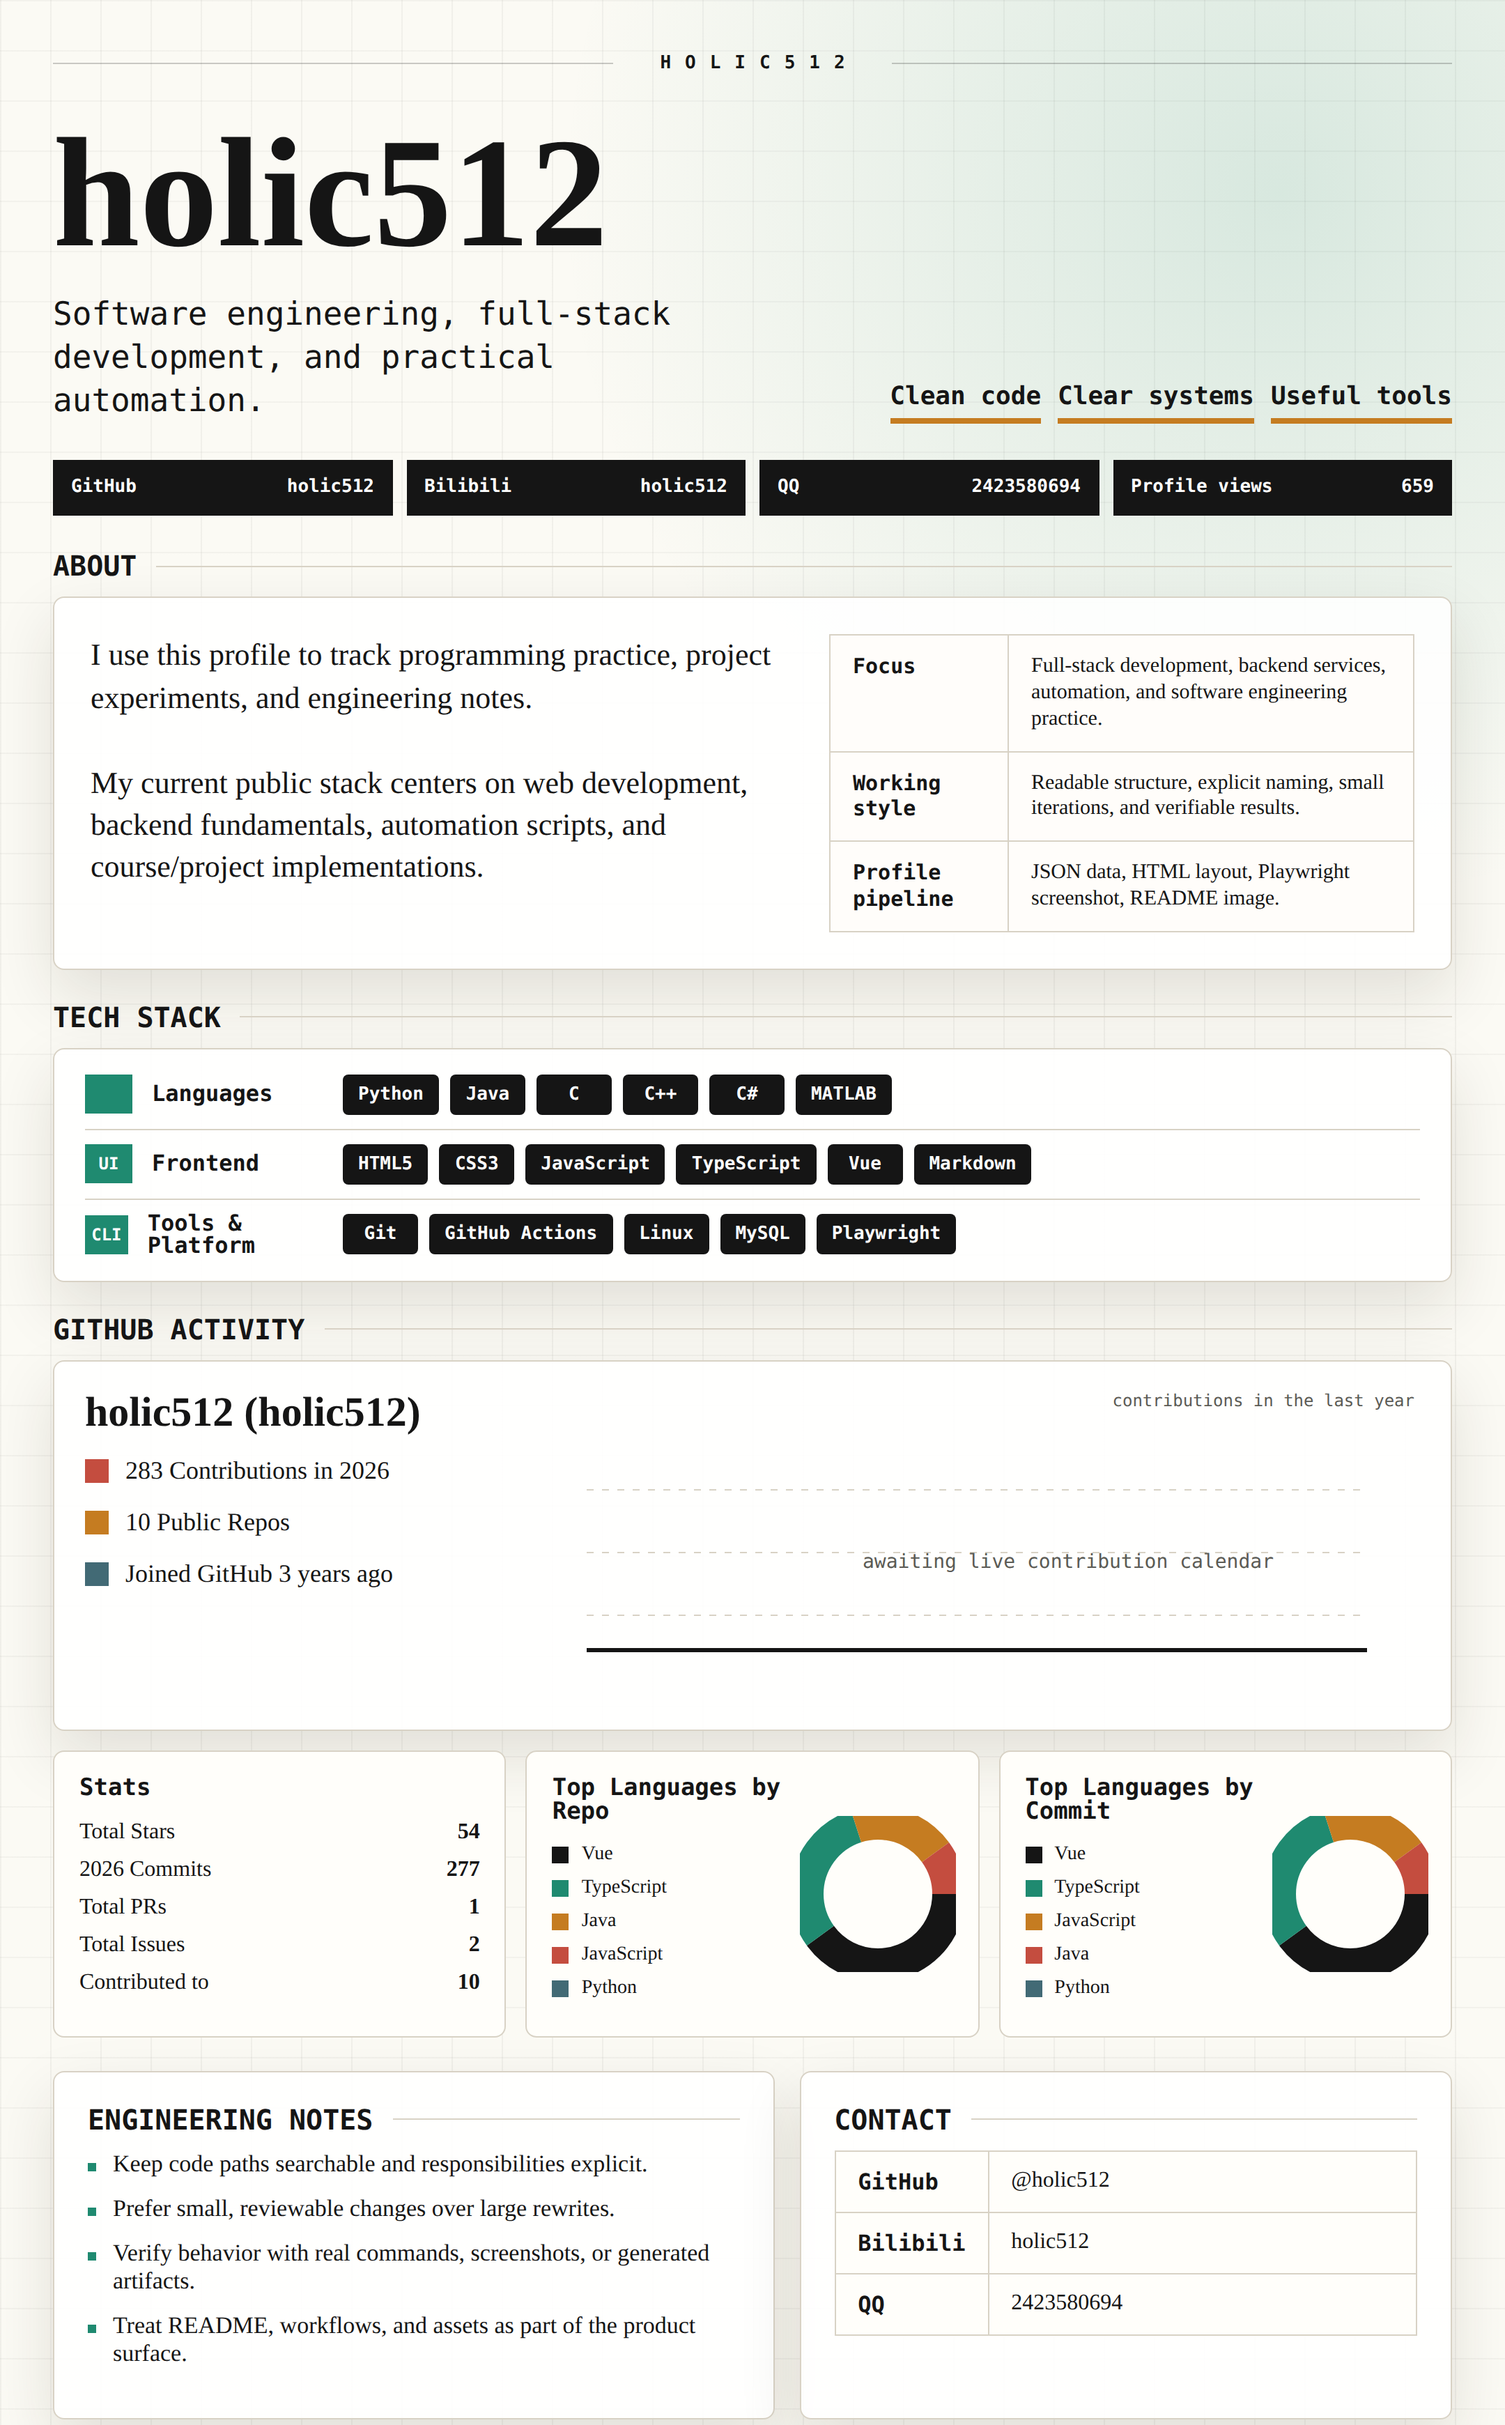
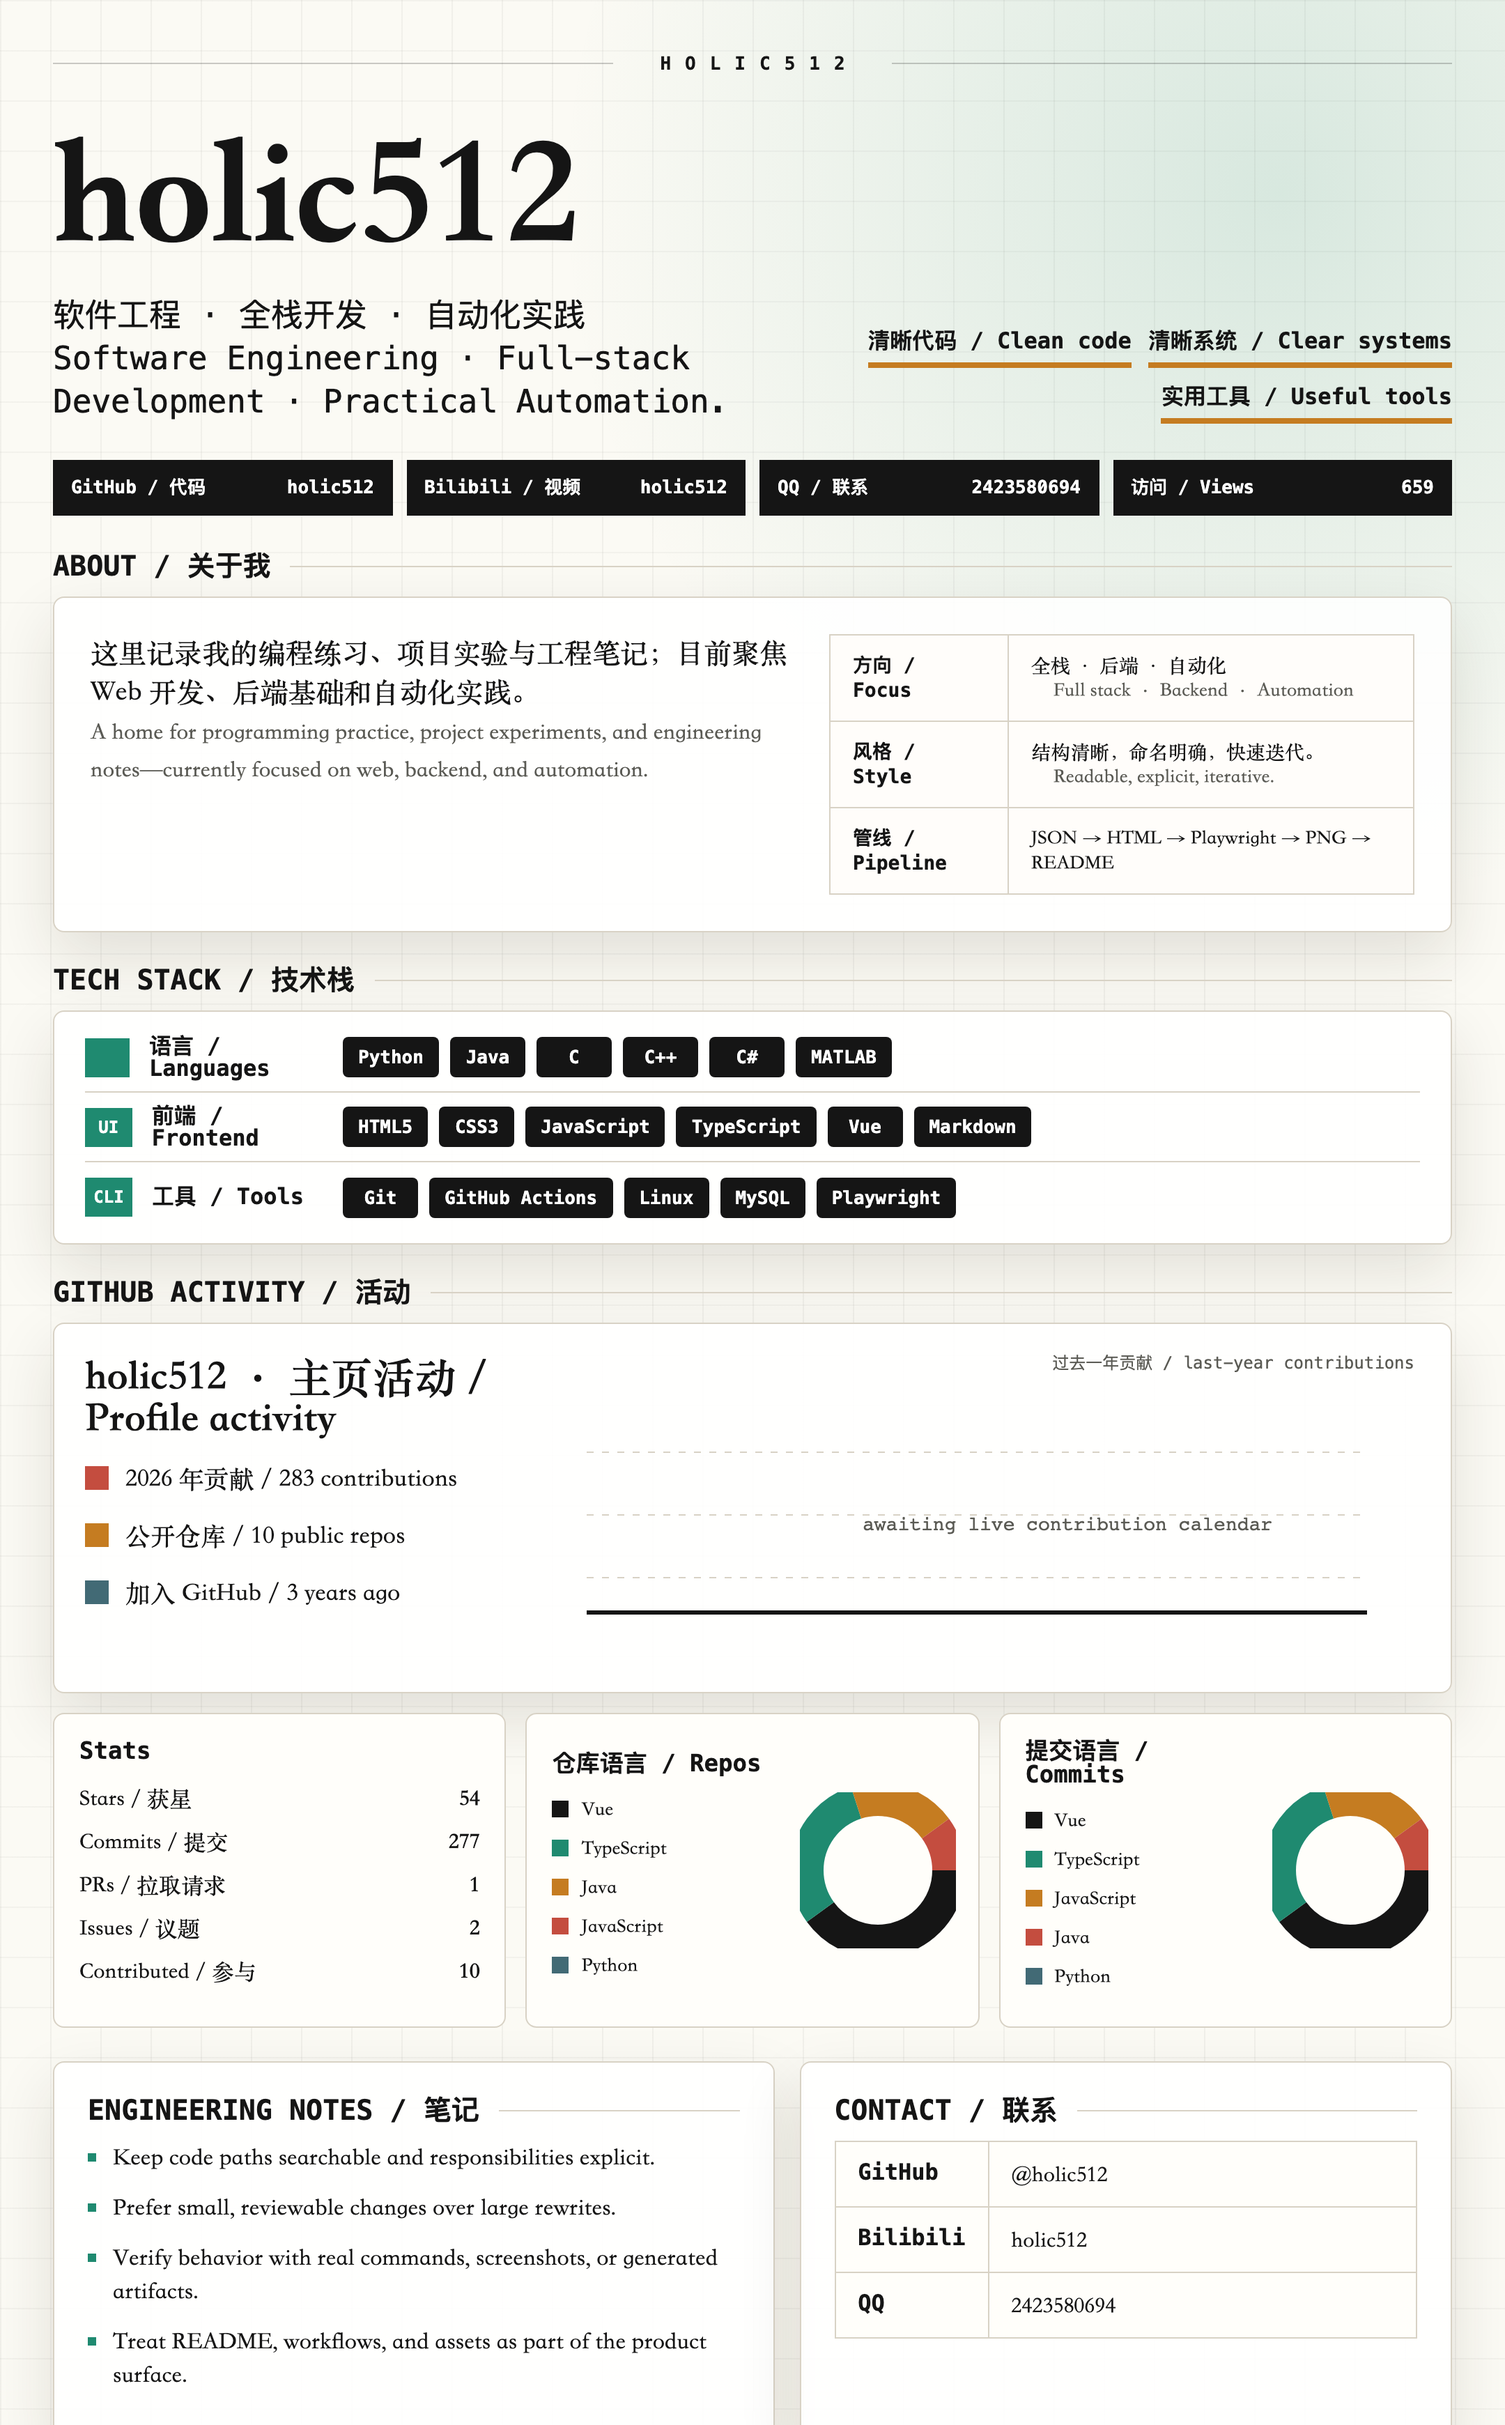
[feat] [1.升级 GitHub Profile 首页为中英双语结构。 2.更新主视觉与本地统计展示。]

diff --git a/templates/profile-readme.html b/templates/profile-readme.html
@@ -13,7 +13,7 @@
   <head>
     <meta charset="utf-8" />
     <meta name="viewport" content="width=device-width, initial-scale=1" />
-    <title>holic512 GitHub profile overview</title>
+    <title>holic512 · 个人主页 / GitHub Profile</title>
     <style>
       :root {
         --ink: #151515;
@@ -36,7 +36,7 @@
         margin: 0;
         background: var(--paper);
         color: var(--ink);
-        font-family: Georgia, "Times New Roman", serif;
+        font-family: "Songti SC", "STSong", Georgia, "Times New Roman", serif;
       }
 
       .profile-canvas {
@@ -93,6 +93,7 @@
         max-width: 620px;
         margin: 24px 0 0;
         font: 23px/1.35 ui-monospace, "SFMono-Regular", Menlo, Consolas, monospace;
+        white-space: pre-line;
       }
 
       .tagline {
@@ -100,7 +101,8 @@
         gap: 12px;
         justify-content: flex-end;
         align-items: center;
-        font: 18px/1 ui-monospace, "SFMono-Regular", Menlo, Consolas, monospace;
+        flex-wrap: wrap;
+        font: 16px/1.15 ui-monospace, "SFMono-Regular", Menlo, Consolas, monospace;
         font-weight: 800;
       }
 
@@ -167,8 +169,13 @@
 
       .about-copy {
         margin: 0;
-        font-size: 22px;
+        font-size: 20px;
         line-height: 1.38;
+      }
+
+      .translation {
+        color: var(--muted);
+        font-size: 0.82em;
       }
 
       .focus-table {
@@ -191,7 +198,7 @@
       .focus-row strong,
       .focus-row span {
         padding: 13px 16px;
-        font-size: 15px;
+        font-size: 14px;
         line-height: 1.25;
       }
 
@@ -413,7 +420,7 @@
     </style>
   </head>
   <body>
-    <main class="profile-canvas" aria-label="holic512 GitHub profile overview">
+    <main class="profile-canvas" aria-label="holic512 的中英双语 GitHub 个人主页概览">
       <div class="masthead">
         <div class="rule"></div>
         <div class="monogram">HOLIC512</div>
@@ -431,7 +438,7 @@
       <section class="badges" data-list="badges"></section>
 
       <section class="section">
-        <div class="section-title">ABOUT</div>
+        <div class="section-title">ABOUT / 关于我</div>
         <div class="panel about-grid">
           <p class="about-copy" data-list="about"></p>
           <div class="focus-table" data-list="focus"></div>
@@ -439,12 +446,12 @@
       </section>
 
       <section class="section">
-        <div class="section-title">TECH STACK</div>
+        <div class="section-title">TECH STACK / 技术栈</div>
         <div class="panel stack" data-list="techStack"></div>
       </section>
 
       <section class="section">
-        <div class="section-title">GITHUB ACTIVITY</div>
+        <div class="section-title">GITHUB ACTIVITY / 活动</div>
         <div class="panel activity">
           <div class="identity">
             <h2 data-text="activityTitle"></h2>
@@ -454,7 +461,7 @@
           </div>
           <div>
             <div class="chart-wrap">
-              <div class="chart-caption">contributions in the last year</div>
+              <div class="chart-caption">过去一年贡献 / last-year contributions</div>
               <svg id="contributionChart" width="620" height="220" viewBox="0 0 620 220" role="img"></svg>
             </div>
           </div>
@@ -468,11 +475,11 @@
 
       <section class="section footer-grid">
         <div class="panel notes">
-          <div class="section-title">ENGINEERING NOTES</div>
+          <div class="section-title">ENGINEERING NOTES / 笔记</div>
           <ul data-list="notes"></ul>
         </div>
         <div class="panel contact">
-          <div class="section-title">CONTACT</div>
+          <div class="section-title">CONTACT / 联系</div>
           <div class="contact-table" data-list="contacts"></div>
         </div>
       </section>
@@ -489,10 +496,10 @@
 
       text("profile.displayName", data.profile.displayName);
       text("profile.subtitle", data.profile.subtitle);
-      text("activityTitle", `${data.profile.username} (${data.profile.displayName})`);
-      text("contributions", `${github.contributions} Contributions in ${github.year}`);
-      text("publicRepos", `${github.publicRepos} Public Repos`);
-      text("joined", `Joined GitHub ${github.joinedYears} years ago`);
+      text("activityTitle", `${data.profile.username} · 主页活动 / Profile activity`);
+      text("contributions", `${github.year} 年贡献 / ${github.contributions} contributions`);
+      text("publicRepos", `公开仓库 / ${github.publicRepos} public repos`);
+      text("joined", `加入 GitHub / ${github.joinedYears} years ago`);
 
       document.querySelector('[data-list="tagline"]').innerHTML = data.profile.tagline
         .split(".")
@@ -502,10 +509,10 @@
         .join("");
 
       document.querySelector('[data-list="badges"]').innerHTML = [
-        ["GitHub", data.profile.username],
-        ["Bilibili", "holic512"],
-        ["QQ", "2423580694"],
-        ["Profile views", data.dynamic.profileViews || "待确认"]
+        ["GitHub / 代码", data.profile.username],
+        ["Bilibili / 视频", "holic512"],
+        ["QQ / 联系", "2423580694"],
+        ["访问 / Views", data.dynamic.profileViews || "待确认"]
       ].map(([label, value]) => `<div class="badge"><span>${label}</span><span>${value}</span></div>`).join("");
 
       document.querySelector('[data-list="about"]').innerHTML = data.about.join("<br><br>");
@@ -525,11 +532,11 @@
       document.querySelector('[data-list="stats"]').innerHTML = `
         <h3>Stats</h3>
         ${[
-          ["Total Stars", github.stars],
-          [`${github.year} Commits`, github.yearCommits],
-          ["Total PRs", github.pullRequests],
-          ["Total Issues", github.issues],
-          ["Contributed to", github.contributedTo]
+          ["Stars / 获星", github.stars],
+          ["Commits / 提交", github.yearCommits],
+          ["PRs / 拉取请求", github.pullRequests],
+          ["Issues / 议题", github.issues],
+          ["Contributed / 参与", github.contributedTo]
         ].map(([label, value]) => `<div class="stat-line"><span>${label}</span><strong>${value}</strong></div>`).join("")}
       `;
 
@@ -543,8 +550,8 @@
         ${donut(languages)}
       `;
 
-      document.querySelector('[data-list="repoLanguages"]').innerHTML = languageBlock("Top Languages by Repo", github.repoLanguages);
-      document.querySelector('[data-list="commitLanguages"]').innerHTML = languageBlock("Top Languages by Commit", github.commitLanguages);
+      document.querySelector('[data-list="repoLanguages"]').innerHTML = languageBlock("仓库语言 / Repos", github.repoLanguages);
+      document.querySelector('[data-list="commitLanguages"]').innerHTML = languageBlock("提交语言 / Commits", github.commitLanguages);
       document.querySelector('[data-list="notes"]').innerHTML = data.notes.map((item) => `<li>${item}</li>`).join("");
       document.querySelector('[data-list="contacts"]').innerHTML = data.profile.contacts
         .map((item) => `<div class="contact-row"><strong>${item.label}</strong><span>${item.value}</span></div>`)

diff --git a/README.md b/README.md
@@ -1,8 +1,55 @@
-<!--
-  Minimalist Profile README
-  Main visual is rendered from JSON + HTML into PNG by GitHub Actions.
--->
+<div align="center">
+
+# 你好，我是 holic512 / Hi, I'm holic512
+
+**软件工程 · 全栈开发 · 自动化实践**<br />
+*Software engineering · Full-stack development · Practical automation*
+
+<a href="https://github.com/holic512">GitHub</a> · Bilibili: <code>holic512</code>
+
+</div>
 
 <p align="center">
-  <img src="./assets/profile-readme.png" alt="holic512 profile overview" width="100%" />
+  <img src="./assets/profile-readme.png" alt="holic512 的中英双语 GitHub 个人主页概览 / holic512's bilingual GitHub profile overview" width="100%" />
 </p>
+
+## 🧭 关于我 / About Me
+
+这里记录我的编程练习、项目实验和工程笔记，并持续沉淀能真正解决问题的实现。<br />
+*This is a living index of programming practice, project experiments, and engineering notes—focused on work that solves real problems.*
+
+- 正在关注全栈开发、后端基础、自动化脚本和软件工程实践。<br />
+  *Currently exploring full-stack development, backend fundamentals, automation scripts, and practical software engineering.*
+
+- 偏好清晰的结构、明确的命名、小步迭代和可验证的交付。<br />
+  *I value readable structure, explicit naming, small iterations, and verifiable results.*
+
+## 🛠 技术栈 / Tech Stack
+
+| 方向 / Area | 工具与语言 / Tools & Languages |
+| --- | --- |
+| 编程语言<br/>Languages | <code>Python</code> <code>Java</code> <code>C</code> <code>C++</code> <code>C#</code> <code>MATLAB</code> |
+| 前端开发<br/>Frontend | <code>HTML5</code> <code>CSS3</code> <code>JavaScript</code> <code>TypeScript</code> <code>Vue</code> <code>Markdown</code> |
+| 工程工具<br/>Engineering | <code>Git</code> <code>GitHub Actions</code> <code>Linux</code> <code>MySQL</code> <code>Playwright</code> |
+
+## 📊 GitHub 数据 / GitHub Insights
+
+<p align="center">
+  <img src="./assets/profile-details.svg" alt="holic512 贡献热力图 / contribution heatmap" width="100%" />
+</p>
+
+<p align="center">
+  <img src="./assets/github-stats.svg" alt="holic512 GitHub 统计 / GitHub statistics" width="49%" />
+  <img src="./assets/top-langs.svg" alt="holic512 仓库语言分布 / repository language distribution" width="49%" />
+</p>
+
+## 🤝 一起交流 / Let's Connect
+
+如果你对仓库中的项目、实现方式或工程实践感兴趣，欢迎通过 [GitHub](https://github.com/holic512) 交流。<br />
+*If a project, implementation detail, or engineering practice here catches your interest, feel free to connect on GitHub.*
+
+<div align="center">
+
+<sub>用心构建 · 用证据交付 / Build with intent · Ship with evidence</sub>
+
+</div>
